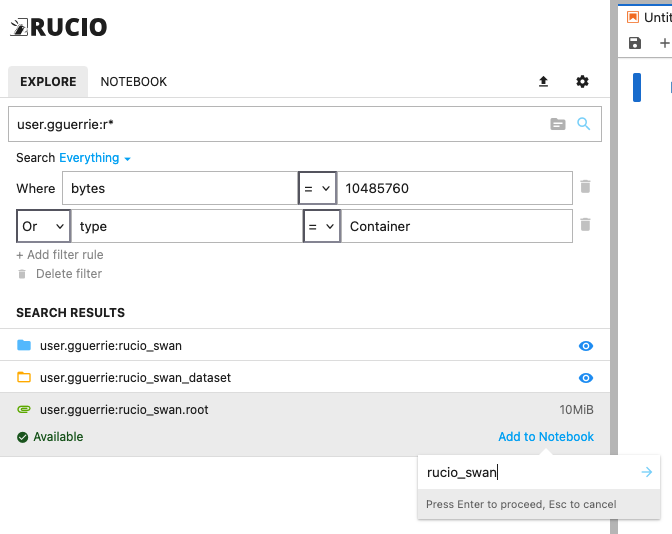
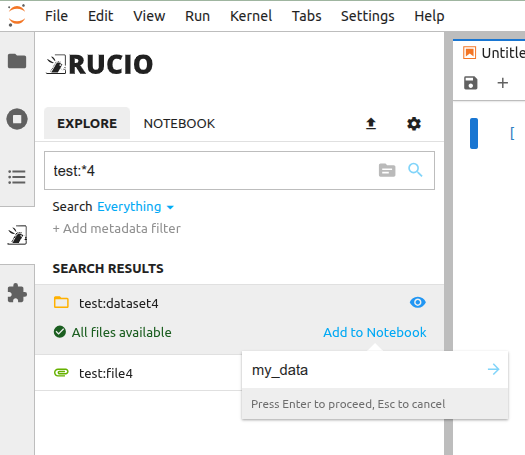
Modify notebook injection part

diff --git a/docs/user/jupyter_extension_user.md b/docs/user/jupyter_extension_user.md
@@ -9,9 +9,7 @@ The **Rucio JupyterLab Extension** brings scientific data management directly in
 
 ## How It Works
 
-The extension integrates Rucio's data discovery and management capabilities into JupyterLab through a sidebar interface. When you spawn a JupyterLab session, you can choose to activate the extension and configure which experiment's Rucio cluster to connect to, as well as select a dedicated Rucio Storage Element (RSE) to be used as local storage for files.
-
-The extension leverages the existing Rucio Storage Elements (RSEs) provided by your experiment, typically available at Tier-0 infrastructure facilities.
+The **Rucio Jupyterlab Extension** integrates Rucio's data discovery and management capabilities into JupyterLab through a sidebar interface. The extension supports interaction with many Rucio instances. A Rucio Storage Element (RSE) for each instance can be chosen to serve as the destination for local file storage, leveraging the existing RSEs provided by your experiment.
 
 From the JupyterLab sidebar, you can:
 - **Browse Rucio datasets** by scope and name
@@ -132,21 +130,22 @@ Once data becomes available on your session's RSE:
 
 1. **Open a notebook** in your JupyterLab session
 2. An **Add to notebook** link appears in the extension sidebar
-3. Click the link to add the dataset to your notebook
-4. **Provide a variable name** for the dataset (e.g., `my_data`)
+3. Click the link to add the data to your notebook
+4. **Provide a variable name** for the data (e.g., `my_data`)
 5. Click **Confirm**
-6. A new variable containing the path to the dataset is automatically added to your notebook
+6. A new variable containing the path to the data is automatically added to your notebook
 
 ![image](/img/rucio_jupyter_add.png)
 
-The variable will contain the local file path where the data is available, allowing you to use it directly in your analysis code:
+The variable will contain the local file path where the data is available. It will be a single string with the path, in case of files, or a list of paths, in case of datasets and containers. This allows you to use the data directly in your analysis code:
 
 ```python
 # After adding data via the extension
 import numpy as np
 
-# my_data is now a variable containing the path to your dataset
-with open(my_data, 'r') as f:
+# my_data is now a variable containing the local paths to the files in the data
+# my_data = ["/tmp/rucio_xrd1/test/80/25/file1"]
+with open(my_data[0], 'r') as f:
     data = np.load(f)
 ```
 
